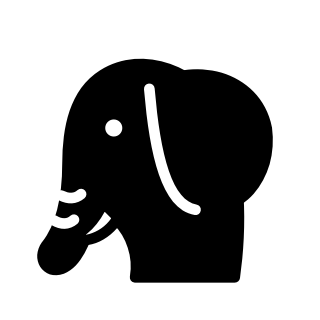
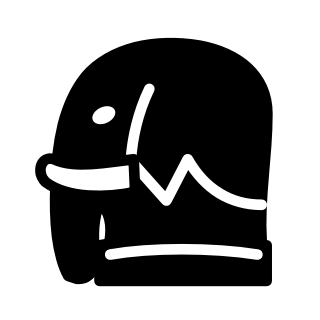
Redraw the Elephant after Mac's reference; value 1.5
PieceDef.value is now a float so costs can be fractional.

Changed region(s): [[0.0938, 0.0938, 0.875, 0.9062]]

diff --git a/CLAUDE.md b/CLAUDE.md
@@ -32,7 +32,7 @@ Everything in the rules engine should be built so standard chess is just one con
 * Mobile is a must: portrait layout (720x1280 viewport, scales to any screen; 450x800 window on PC), tap-to-move (a mouse click works the same). Board uses classic light/dark squares (#F0D9B5 / #B58863).
 * Piece art: the "Cburnett" set from Wikimedia Commons (Mac supplied the sprite sheet). It is licensed (CC BY-SA 3.0 / GPL / BSD / GFDL), so a published game must credit it (e.g. "Chess pieces by Cburnett, CC BY-SA 3.0") — remind Mac before any release. Style folder: `res://art/pieces/standard/`. New piece types will need matching art (ask Mac).
 * Board orientation: White always at the bottom, nothing drawn upside down (no flipping).
-* First custom piece: the **Elephant** (`res://data/pieces/elephant.tres`, symbol E): jumps exactly 2 squares diagonally (can't be blocked, stays on one colour), captures the same way. Value 0 until Mac sets piece costs. Art: Mac is choosing between options A/B/C in `res://art/source/elephant_options/` (A is in use as a stand-in).
+* First custom piece: the **Elephant** (`res://data/pieces/elephant.tres`, symbol E): jumps exactly 2 squares diagonally (can't be blocked, stays on one colour), captures the same way. Value 1.5 (`PieceDef.value` is a float). Art: option D in `res://art/source/elephant_options/` (side view with dome head, hanging trunk, curved tusk, notched ear and collar, modelled on a reference Mac supplied); A/B/C kept there as alternatives.
 * Custom piece art is drawn by Claude as SVG in the Cburnett style (45x45 canvas, 1.5 black outline, white or black fill, white detail lines on black pieces), saved in `res://art/source/pieces/<team>_<id>.svg`, rendered to PNG with `tools/render_piece_svg.gd`. Offer Mac a few options per piece.
 * Draws end the game automatically: 50-move rule, threefold repetition, and positions where checkmate is impossible (worked out from move data; custom pieces will need more thought later).
 
